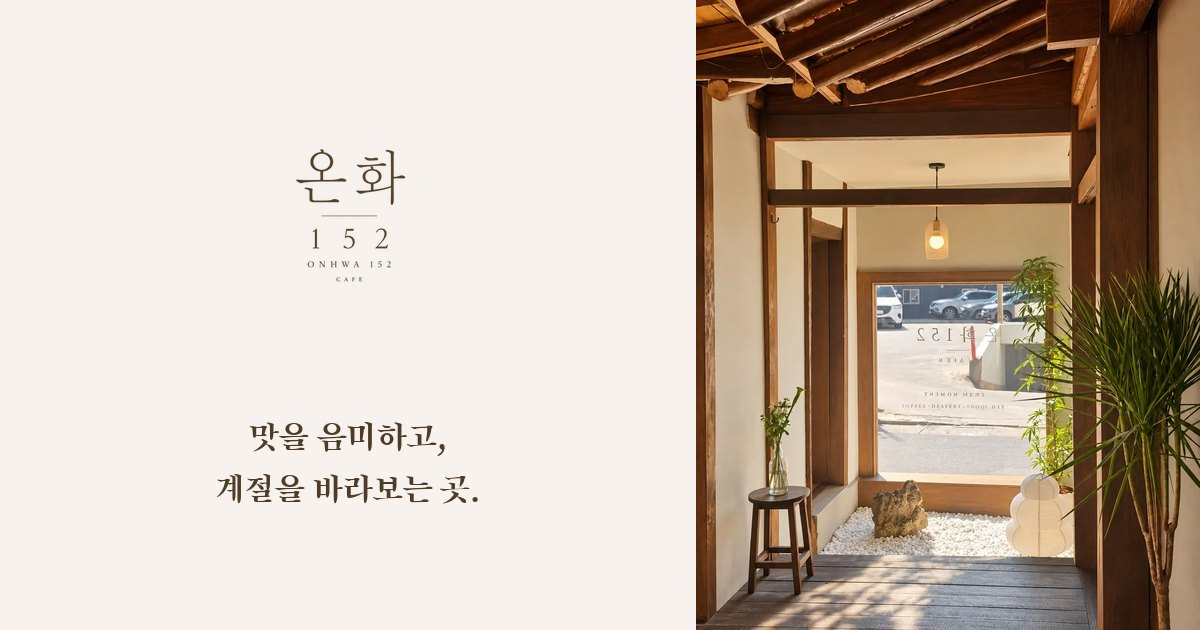
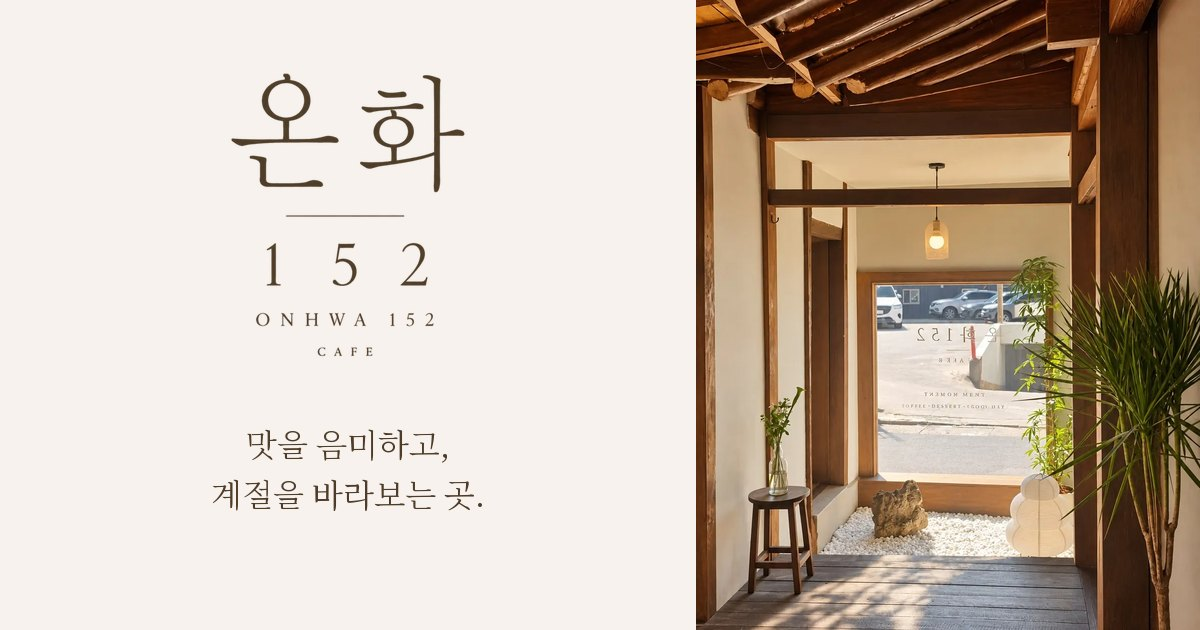
Add files via upload

diff --git a/index.html b/index.html
@@ -35,10 +35,11 @@
 }
 </script>
 <style>
-@font-face{ font-family:"OW Brush"; font-weight:400; font-display:swap; src:url("ow-songmyung.woff2") format("woff2"); }
+@font-face{ font-family:"OW Brush"; font-weight:300; font-display:swap; src:url("ow-notoserif.woff2") format("woff2"); }
 @font-face{ font-family:"OW Serif"; font-weight:300 600; font-display:swap; src:url("ow-cormorant.woff2") format("woff2"); }
 @font-face{ font-family:"OW Sans"; font-weight:400 600; font-display:swap; src:url("ow-pretendard.woff2") format("woff2"); }
 
+/* 한글 제목: Noto Serif KR 300(얇고 정적인 명조) */
 /* 토큰: 낮 = 로고 바탕 미색(실측) · 로고 먹갈색(실측) / 해질녘 = 짙은 갈색 */
 :root{
   --day:#F7F2EE;          /* 로고 배경 실측 */
@@ -60,7 +61,7 @@ html{ -webkit-text-size-adjust:100%; }
 body{ margin:0; background:var(--day); color:var(--ink); font-family:var(--sans); font-size:16px; line-height:1.85; word-break:keep-all; overflow-x:hidden; }
 img{ max-width:100%; height:auto; display:block; }
 a{ color:inherit; text-decoration:none; }
-h1,h2,h3{ font-family:var(--brush); font-weight:400; margin:0; letter-spacing:0; }
+h1,h2,h3{ font-family:var(--brush); font-weight:300; margin:0; letter-spacing:-.01em; }
 p{ margin:0; }
 .wrap{ width:min(100% - 40px, var(--wrap)); margin:0 auto; }
 :focus-visible{ outline:2px solid currentColor; outline-offset:3px; }
@@ -95,7 +96,9 @@ p{ margin:0; }
 .hero{ padding:56px 0 80px; }
 .hero .wrap{ display:grid; gap:44px; align-items:center; }
 @media (min-width:900px){ .hero{ padding:90px 0 120px; } .hero .wrap{ grid-template-columns:1fr 1fr; gap:80px; } }
-.hero .logo{ width:min(52%,230px); }
+.hero .copy{ text-align:center; }
+.hero .logo{ width:min(64%,280px); margin:0 auto; }
+.hero .cta{ justify-content:center; }
 .hero h1{ font-size:clamp(1.5rem,3.6vw,2.15rem); line-height:1.6; margin-top:34px; }
 .hero .sub{ margin-top:18px; color:var(--soft); }
 .hero .cta{ display:flex; flex-wrap:wrap; gap:8px; margin-top:32px; }
@@ -135,7 +138,7 @@ p{ margin:0; }
 
 /* 낮 → 해질녘 전환 띠 */
 .dusk-band{ padding:300px 0 110px; background:linear-gradient(180deg, var(--day) 0%, #CDBBA6 24%, #6B5440 52%, var(--dusk) 82%); text-align:center; }
-.dusk-band p{ font-family:var(--brush); font-size:clamp(1.35rem,3.6vw,2rem); line-height:1.7; color:var(--dusk-ink); text-shadow:0 1px 18px rgba(43,33,25,.35); margin-top:18px; }
+.dusk-band p{ font-family:var(--brush); font-weight:300; font-size:clamp(1.35rem,3.6vw,2rem); line-height:1.7; color:var(--dusk-ink); text-shadow:0 1px 18px rgba(43,33,25,.35); margin-top:18px; }
 .dusk-band .label{ color:var(--dusk-ink); opacity:.85; }
 
 /* 해질녘 구간 */
@@ -147,7 +150,7 @@ p{ margin:0; }
 .dusk-g .big{ grid-column:1 / -1; }
 @media (min-width:900px){ .dusk-g .big{ grid-column:auto; } }
 .closing{ text-align:center; margin-top:90px; }
-.closing p{ font-family:var(--brush); font-size:clamp(1.5rem,4.2vw,2.4rem); line-height:1.6; }
+.closing p{ font-family:var(--brush); font-weight:300; font-size:clamp(1.5rem,4.2vw,2.4rem); line-height:1.6; }
 .closing img{ width:min(40%,170px); margin:34px auto 0; }
 
 /* 오시는 길 (해질녘 바탕 이어서) */
@@ -200,8 +203,8 @@ p{ margin:0; }
 <main id="top">
   <section class="hero">
     <div class="wrap">
-      <div class="reveal">
-        <img class="logo" src="ow-logo.webp" alt="온화 152 ONHWA 152 CAFE" width="560" height="560" />
+      <div class="copy reveal">
+        <img class="logo" src="ow-logo.webp" alt="온화 152 ONHWA 152 CAFE" width="600" height="724" />
         <h1>대구 동인동,<br />조용한 한옥의 분위기를 담은<br />카페 온화152입니다.</h1>
         <p class="sub">수~월 12:00~20:00 · 라스트오더 19:30 · 화요일 휴무</p>
         <div class="cta">
@@ -289,7 +292,7 @@ p{ margin:0; }
       </div>
       <div class="closing reveal">
         <p>맛을 음미하고,<br />계절을 바라보는 곳.</p>
-        <img loading="lazy" src="ow-logo-light.webp" alt="온화 152" width="560" height="560" />
+        <img loading="lazy" src="ow-logo-light.webp" alt="온화 152" width="600" height="724" />
       </div>
     </div>
   </section>
@@ -326,7 +329,7 @@ p{ margin:0; }
 
 <footer class="foot">
   <div class="wrap">
-    <img src="ow-logo-light.webp" alt="온화 152" width="560" height="560" loading="lazy" />
+    <img src="ow-logo-light.webp" alt="온화 152" width="600" height="724" loading="lazy" />
     <p>온화152 · 대구 중구 국채보상로 704-5 1층 · 0507-1381-3525<br />수~월 12:00~20:00 (화요일 휴무) · © ONHWA 152</p>
   </div>
 </footer>

diff --git a/CHANGELOG.md b/CHANGELOG.md
@@ -1,5 +1,10 @@
 # CHANGELOG · 온화152 ONHWA 152 (@onhwa152 · 대구 동인동 한옥카페)
 
+## v0.2 · 2026-10-23 (다올 피드백)
+- 한글 제목 폰트: 송명(붓맛이라 번잡) → **Noto Serif KR 300**(얇고 정적인 명조). 300 한 굵기만 서브셋(63KB · 누락 0 · 라이선스 필드 있음). ow-songmyung.woff2 삭제, ow-notoserif.woff2 추가. og 이미지 문구도 같은 폰트로 다시 만듦.
+- 히어로 로고 크기: 로고 투명 파일에 옅은 바탕 잡티가 남아 실제 글자보다 캔버스가 컸던 것이 "작아 보인" 원인 → 잡티 제거 후 글자 둘레만 남겨 다시 자름(600×724). 표시 폭 최대 280px(실제 글자 기준 이전 약 200px의 1.4배).
+- 히어로 왼쪽 칸을 가운데 정렬(로고가 가운데 구도라 왼쪽 정렬 글자와 어긋나 보이던 것 정리). 파비콘 · og 이미지도 새 로고로.
+
 ## v0.1 · 2026-10-23 (최초 시안 · 9.9 원페이지)
 - **브리프(다올)**: 한옥 카페. 로고의 폰트와 배경색을 메인으로. 사진이 적음 → 3안 중 **A안 낮과 해질녘** 선택.
 - **콘셉트**: 사장님 소개글 "낮에는 따뜻한 햇살과 한옥의 여유를, 해질녘부터는 또 다른 분위기의 온화를"을 페이지 구조로. 위쪽은 로고 미색 바탕(낮), 전환 띠(그라데이션)를 지나 짙은 갈색 바탕(해질녘)으로 끝남. 헤더 · 모바일 하단 바도 해질녘 구간에서 어두운 색으로 바뀜(setInterval 판정).
